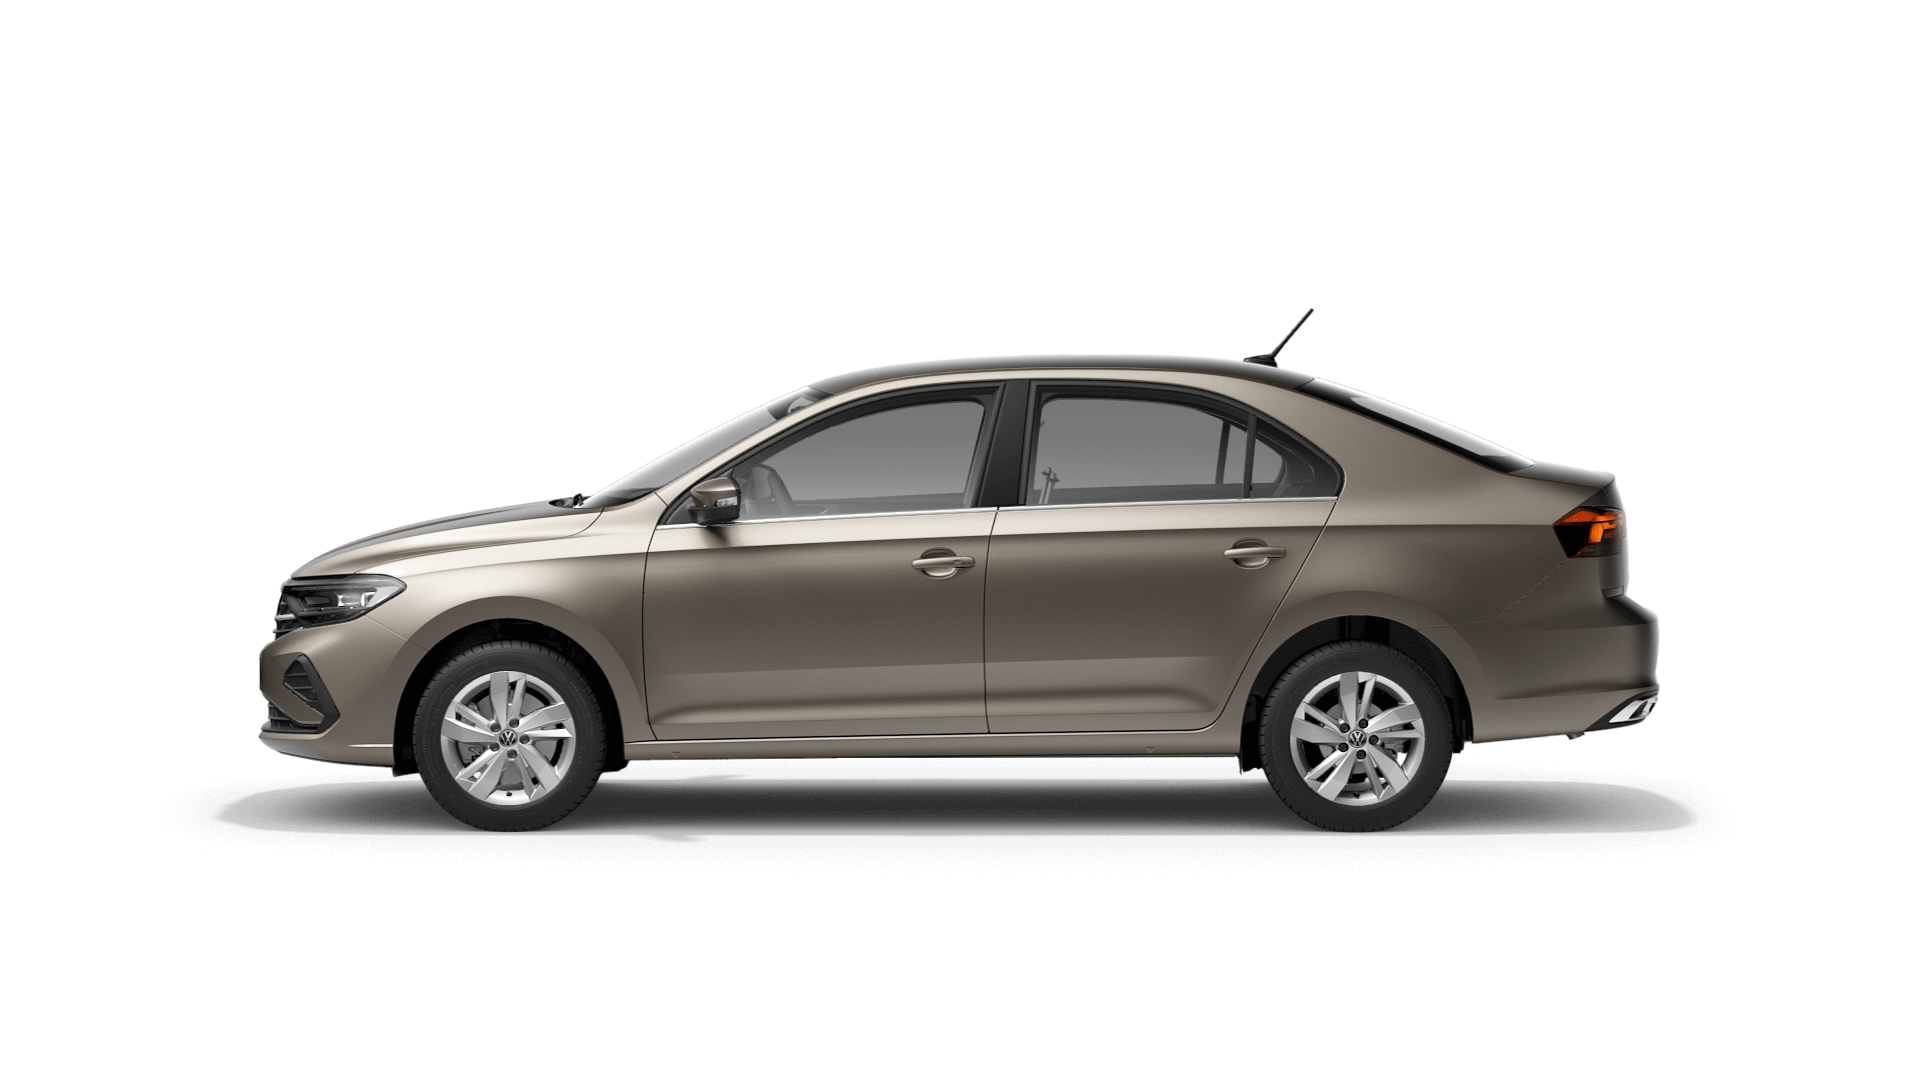
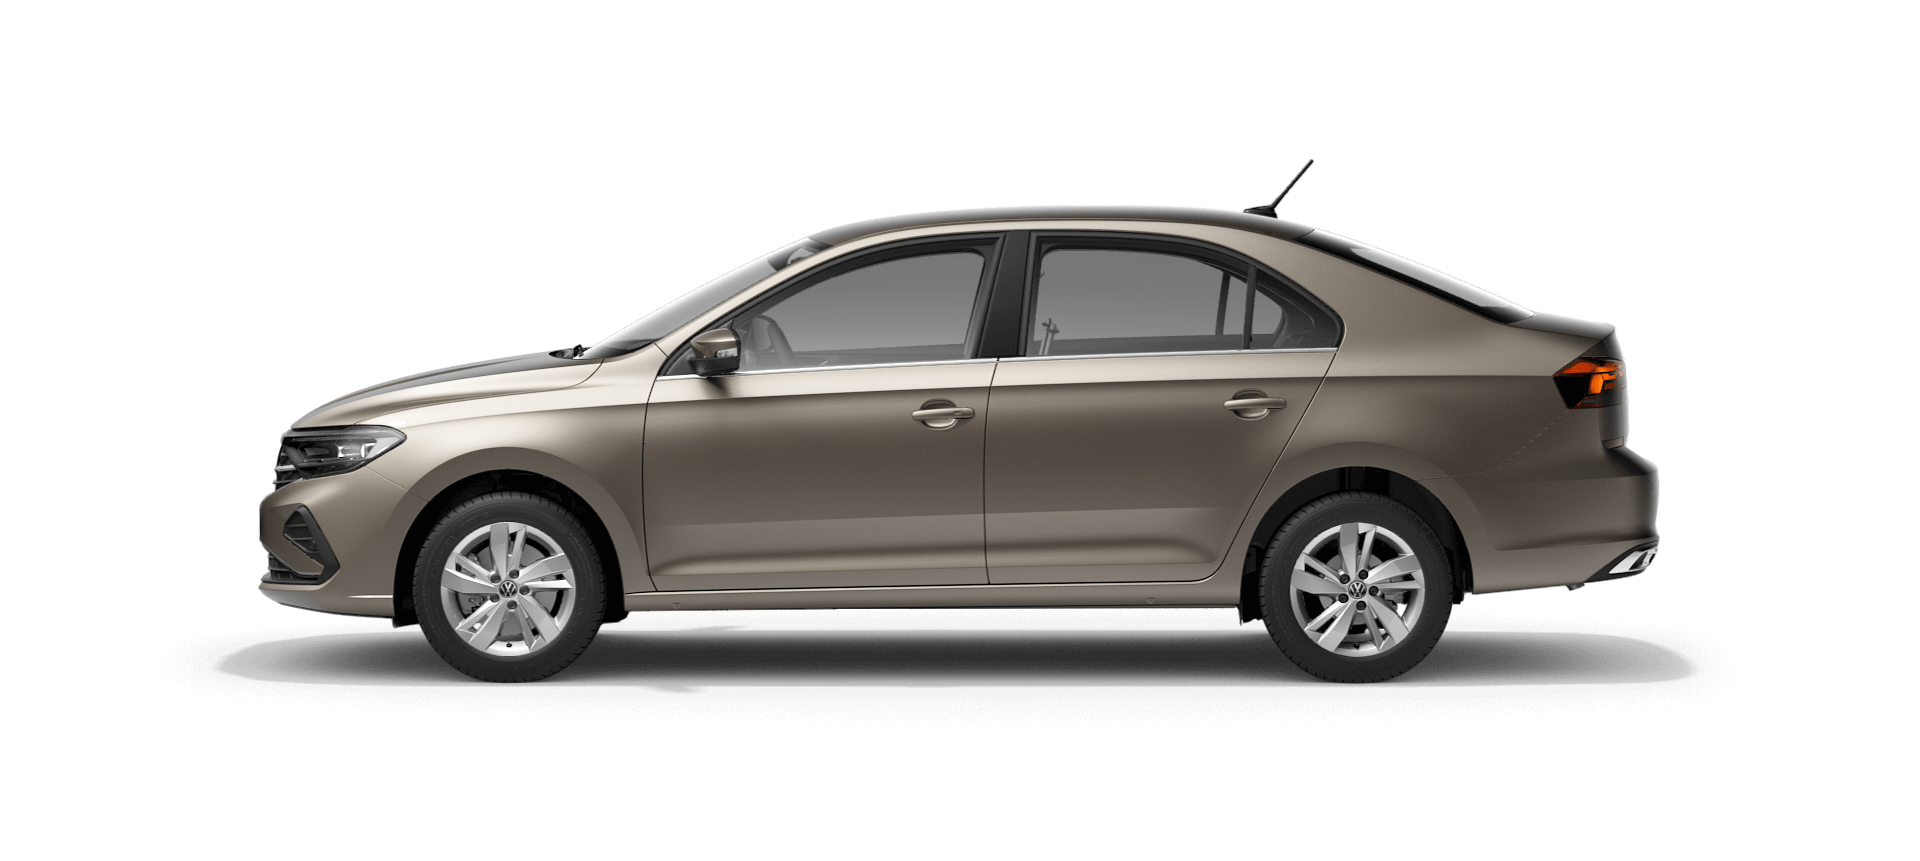
❄ Lab8 is done! ❄

Changed region(s): [[0.0938, 0.2114, 0.9062, 0.8153]]

diff --git a/Lab8/polosedan.html b/Lab8/polosedan.html
@@ -17,6 +17,11 @@
     <img id="vw_polosedan" class="polosedan" src="../imgs/polosedan.png">
   </p>
 
+  <p id="polosedan_info">
+    Volkswagen Polo седан — автомобіль B-класу, 4-дверна модифікація Volkswagen Polo 5 в кузові седан німецького концерну Volkswagen. Спроектований в 2009-2010-х роках для ринку Росії та Азії. З 2014 модель під таким же ім'ям продається ринку Малайзії[2]. В Індії ця ж модель продається під ім'ям Volkswagen Vento.[3] У Бразилії, Китаї і ПАР автомобіль носить ім'я Volkswagen Polo Classic. Збірка (по повному циклу) автомобіля, побудованого на платформі хетчбека Polo п'ятого покоління, організована протягом літа 2010 року на власному заводі ТОВ «Фольксваген Груп Рус» в промзоні Грабцево під Калугою. Перші товарні Polo sedan з'явилися у російських офіційних дилерів Volkswagen у вересні 2010 року. Автомобіль технічно ідентичний Škoda Rapid для країн, що розвиваються.
+    З 2011 року Volkswagen Polo sedan офіційно продається в Україні. 
+  </p>
+
   <p class="center_paragraph">
     <img id="img" class="vw" src="../imgs/vw.png">
   </p>

diff --git a/Lab8/scripts/handler.js b/Lab8/scripts/handler.js
@@ -1,5 +1,7 @@
 'use strict';
 
+const txt = document.getElementById("polosedan_info");
+
 img.onclick = function loadMainPage() {
   location.assign("../Lab3/index.html");
 }
@@ -9,8 +11,36 @@ vw_polosedan.onmouseover = vw_polosedan.onmouseout = handler;
 function handler(event) {
   if (event.type == 'mouseover') {
     event.target.style.background = 'white';
+    event.relatedTarget.style.background = 'black';
   }
   if (event.type == 'mouseout') {
-    event.target.style.background = 'red';
+    event.target.style.background = '';
   }
+}
+
+txt.onmousedown = function(event) {
+  txt.style.position = 'absolute'; 
+  txt.style.zIndex = 1000;
+  document.body.append(txt);
+  moveAt(event.pageX, event.pageY);
+ 
+  function moveAt(pageX, pageY) { 
+    txt.style.left = pageX - txt.offsetWidth / 2 + 'px'; 
+    txt.style.top = pageY - txt.offsetHeight / 2 + 'px'; 
+  }
+
+  function onMouseMove(event) { 
+    moveAt(event.pageX, event.pageY); 
+  }
+
+  document.addEventListener('mousemove', onMouseMove);
+
+  txt.onmouseup = function() { 
+    document.removeEventListener('mousemove', onMouseMove); 
+    txt.onmouseup = null; 
+  }
+}
+
+ball.ondragstart = function() { 
+  return false;
 }

diff --git a/Lab3/styles/style.css b/Lab3/styles/style.css
@@ -199,7 +199,17 @@ ul.beetle {
 }
 
 .polosedan {
-  shape-outside: ellipse();
   width: 960px;
-  height: 540px;
+  height: 430px;
+  border-radius: 500px;
+  border: 3px solid white;
+}
+
+#polosedan_info {
+  width: 960px;
+  font-family:'Courier New', Courier, monospace;
+  text-align: center;
+  margin-top: 70px;
+  margin-left:auto;
+  margin-right: auto;
 }
